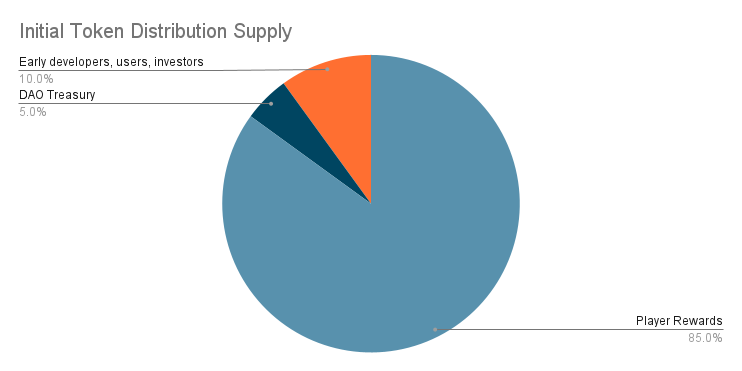
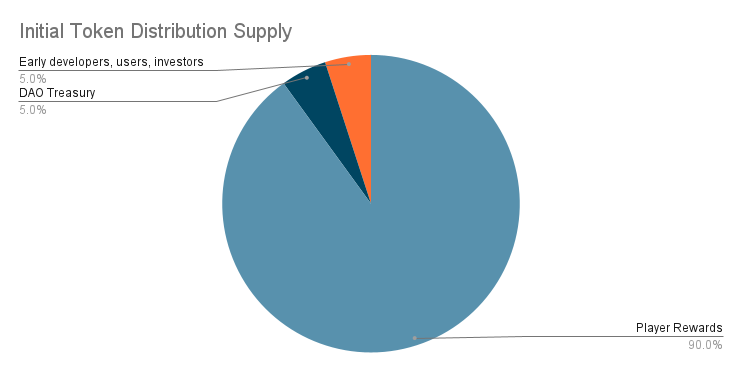
Add contract info, fix typos, misc.

diff --git a/README.md b/README.md
@@ -6,7 +6,7 @@ Sigma Squared is an open-source, decentralized gambling protocol, built on top o
 
 The game smart contracts and house treasury are owned by a DAO, which in turn is controlled using voting interests in the form of an ERC20 token called Sigma Squared (SIGMA2). Players can place bets denominated in SIGMA2 for 0% house edge, enabling actuarially fair gambling. This is not something players can obtain elsewhere at the time of writing, as far as the writers are aware. Users can also place bets denominated in MATIC and USDC for a small house edge, which is set by the community/DAO. In the future, the community can choose to deploy game contracts for other tokens. Any contract balances that arise as the result of this house edge are completely owned and controlled by the DAO. The community may vote to distribute game contract balances in the future in the form of dividends or a buyback, for example.
 
-To ensure that the DAO, and in turn the game contracts / house are actually controlled by players, 90% of the initial circulating supply of Sigma Squared tokens will be given away to players in the form of rewards. This will happen over the first year of Sigma Squared’s existence. A certain number of tokens are distributed to players per block, prorated based on each player’s largest loss in a rewards round. This encourages use of the game contracts, and helps reduce variance, since the largest losers are rewarded more. A more detailed explanation can be found in the ‘Rewards’ section of the documentation.
+To ensure the DAO, and in turn the game contracts / house are actually controlled by players, 90% of the initial circulating supply of Sigma Squared tokens will be given away to players in the form of rewards. This will happen over the first year of Sigma Squared’s existence. A certain number of tokens are distributed to players per block, prorated based on each player’s largest loss in a rewards round. This encourages use of the game contracts, and helps reduce variance, since the largest losers are rewarded more. A more detailed explanation can be found in the [Rewards](rewards.md) section of the documentation.
 
 ## Background
 
@@ -36,11 +36,11 @@ The Sigma Squared token is at the center of the entire ecosystem. It is an ERC20
 
 ### Game Contracts
 
-The game Smart Contracts are what users actually interact with to place bets. Initially, there will be two types of game contracts, described below. However in the future, developers can add other types, and release them by submitting a proposal to the DAO.
+The game Smart Contracts are what users actually interact with to place bets. Initially, there will be two types of game contracts, described below. However, in the future developers can add other types, and release them by submitting proposals to the DAO.
 
 One set of game contracts allows players to bet on a Bernoulli random variable. A bet can be placed by specifying an amount and a multiplier. The outcome will either be a win or a loss. As an example, consider a player that places a bet with an amount of 1 USDC, a multiplier of 3x, and the house edge is 0%. There is a 33.33% chance the player wins 3 USDC (+2 USDC), and a 66.66% they do not get back their original bet (-1 USDC). If there is a positive house edge it will change the probabilities accordingly.
 
-The other set of game contracts allow players to enter a lottery. Any amount can be deposited into the lottery, and a single user wins the entire amount at the end. The probability of winning is weighted based on the amount deposited. There can be a house edge associated with the lottery; when a user deposits into the lottery, a percentage of that deposit is taken out of the lottery pool, and held in the contract as profit.
+The other set of game contracts allow players to enter a lottery. Any amount can be deposited into the lottery, and a single user wins the entire amount at the end. The probability of winning is weighted based on the amount deposited. There can be a house edge associated with the lottery; when a user deposits into the lottery, a percentage of that deposit is taken out of the lottery pool and held in the contract as profit.
 
 All the games contracts are completely owned and controlled by the DAO. Parameters, such as house edge and risk parameters, are governed by the DAO. All profit derived from any games with positive house edge is completely owned by the DAO.
 
@@ -52,13 +52,13 @@ In order to ensure the initial distribution is done in a fair way, a set of rewa
 
 Rewards will be given out over the course of a year, at which point the rewards system will be decommissioned. Rewards are given out in rounds which last 43200 blocks (\~ 1 day with Polygon block times). A set amount of tokens are distributed every block. The rewards are prorated and allocated to players based on each player’s largest loss in a given round.
 
-See the 'Rewards' section in the documentation for more details.
+See the [Rewards](rewards.md) section in the documentation for more details.
 
 ### Front-end Interfaces
 
 The previous three components all exist on the Polygon blockchain. Interacting directly with the Smart Contracts programmatically is something that requires technical knowledge and is likely not what users imagine when they envision gambling. A front-end web app enables interaction in a more user-friendly way.
 
-The on-chain game contracts are basic building blocks for gambling games that only specify the payout distribution. Front-end web interfaces can build on top of these to provide a more interesting gaming experience. Betting on a Bernoulli random variable by specifying an amount and a multiplier alone may not be very exciting, however many more interesting games have this type of payout structure. For example flipping a coin, roulette games, poker hands flipping, and ‘crash’ style games all have a Bernoulli payout structure.
+The on-chain game contracts are basic building blocks for gambling games that only specify the payout distribution. Front-end web interfaces can build on top of these to provide a more engaging gaming experience. Betting on a Bernoulli random variable by specifying an amount and a multiplier alone may not be very exciting, however many more interesting games have this type of payout structure. For example flipping a coin, roulette games, poker hands flipping, and ‘crash’ style games all have a Bernoulli payout structure.
 
 Initially, a single open-source front-end interface will exist for Sigma Squared with a few basic games. However one of the goals of community development is to expand on the game selection and experience available to users. Anyone with web development knowledge can build a gambling application using Sigma Squared as the back-end. To encourage this sort of development, 5% of the initial circulating supply of SIGMA2 was given to the DAO treasury, with the intention of distributing it, in the future, to developers who expand on the user experience by creating new games or improving on existing ones. For example, the DAO could hold competitions or commission new game creation using these tokens as payment / reward.
 
@@ -82,7 +82,7 @@ There is no initial offering, or any centralized offering of tokens. Instead the
 
 * This is a reward for early developers, users, and investors. This ensures the people behind the vision hold a significant controlling stake in the DAO initially, to prevent any sort of hostile takeover or other action.
 
-In addition to this circulating supply, 2,500,000 SIGMA2 was added to the game contracts denominated in SIGMA2, to payout future bet winners.
+In addition to this circulating supply, 2,500,000 SIGMA2 was added to the Bernoulli game contract denominated in SIGMA2, to payout future bet winners.
 
 #### **Total: 12,500,000 SIGMA2**
 
@@ -92,7 +92,7 @@ Because games are offered with 0% house edge when bets are denominated in SIGMA2
 
 To deal with this, the DAO has the power to mint and burn SIGMA2 tokens. If the SIGMA2 game contact balances become extremely low, the DAO will mint more SIGMA2 tokens to add to the game balances. If the game contract balances are outrageously high, the DAO will withdraw SIGMA2 tokens and burn them.
 
-This means the circulating supply of SIGMA2 tokens will also be a random walk (or martingale) over time. The expected value of the circulated supply in the future is whatever the current circulating supply is, but it could still drift in one direction or the other. In other words, SIGMA2 is neither inflationary or deflationary in expectation, but could experience short-term inflation or deflation from random drift.
+This means the circulating supply of SIGMA2 tokens will also be a random walk over time. The expected value of the circulating supply in the future is whatever the current circulating supply is, but it could still drift in one direction or the other. In other words, SIGMA2 is neither inflationary or deflationary in expectation, but could experience short-term inflation or deflation from random drift.
 
 The profits from games denominated in other tokens, that have some positive house edge, could be used to buy back and burn SIGMA2 tokens, effectively making it deflationary in the long-run. However, the exact mechanism used to distribute house profit is left to the DAO to decide.
 
@@ -126,4 +126,4 @@ The current state of Sigma Squared is intended to be only a starting point. Thus
 
 Old game contracts can be replaced, or new game contracts deployed using DAO proposals. If a game contract needs to be replaced, a proposal can be made which programmatically drains the old game contract, deploys a new one, and transfers all funds to the new contract. If a new game contract needs to be deployed, this can also be done using a similar process.
 
-The initial front-end interface that players use to place bets, is completely open source and hosted on IPFS. Development for this can follow existing processes used across the open source community. In addition to this, anyone can create their own front-end for Sigma Squared. The more front-end interfaces developed, the more variety in gambling experience players have and the more decentralized Sigma Squared become.
+The initial front-end interface that players use to place bets is completely open source and hosted on IPFS. Development for this can follow existing processes used across the open source community. In addition to this, anyone can create their own front-end for Sigma Squared. The more front-end interfaces developed, the more variety in gambling experience players have and the more decentralized Sigma Squared become.

diff --git a/contracts.md b/contracts.md
@@ -2,25 +2,25 @@
 
 | | |
 | -- | -- |
-| GitHub link | |
-| Polygon mainnet address | |
-| Polygon testnet (Mumbai) address | |
+| GitHub link | [SigmaSquared](https://github.com/sigma-squared-dapp/sigma-squared-core/blob/master/contracts/SigmaSquared.sol) |
+| Polygon mainnet address | [0xced6411f44e931B0717Ba81eB0B2183A679Fa7Cb](https://polygonscan.com/address/0xced6411f44e931B0717Ba81eB0B2183A679Fa7Cb) |
+| Polygon testnet (Mumbai) address | [0xC6736866C3cAEf0d431f4feC106Eb1E44fea8faC](https://mumbai.polygonscan.com/address/0xC6736866C3cAEf0d431f4feC106Eb1E44fea8faC) |
 
 # Sigma Squared DAO Governor
 
 | | |
 | -- | -- |
-| GitHub link | |
-| Polygon mainnet address | |
-| Polygon testnet (Mumbai) address | |
+| GitHub link | [SigmaSquaredGovernor](https://github.com/sigma-squared-dapp/sigma-squared-core/blob/master/contracts/SigmaSquaredGovernor.sol) |
+| Polygon mainnet address | [0xBBaA09aBFfe23b70275BD2a87AC6D65B6a0556B7](https://polygonscan.com/address/0xBBaA09aBFfe23b70275BD2a87AC6D65B6a0556B7) |
+| Polygon testnet (Mumbai) address | [0x831d6e91bA8801D72b7f2e26159cfCe1ebd6eB3A](https://mumbai.polygonscan.com/address/0x831d6e91bA8801D72b7f2e26159cfCe1ebd6eB3A) |
 
 # Sigma Squared DAO Timelock
 
 | | |
 | -- | -- |
-| GitHub link | |
-| Polygon mainnet address | |
-| Polygon testnet (Mumbai) address | |
+| GitHub link | [SigmaSquaredTimelockController](https://github.com/sigma-squared-dapp/sigma-squared-core/blob/master/contracts/SigmaSquaredTimelockController.sol) |
+| Polygon mainnet address | [0x8D0F41AC8A450fbaf7A4a9Fcb2208B154568c4a4](https://polygonscan.com/address/0x8D0F41AC8A450fbaf7A4a9Fcb2208B154568c4a4) |
+| Polygon testnet (Mumbai) address | [0xCAe87975B6CE0Ea11848773fc89D6e1e011a95CB](https://mumbai.polygonscan.com/address/0xCAe87975B6CE0Ea11848773fc89D6e1e011a95CB) |
 
 # Bernoulli Games
 
@@ -28,25 +28,25 @@
 
 | | |
 | -- | -- |
-| GitHub link | |
-| Polygon mainnet address | |
-| Polygon testnet (Mumbai) address | |
+| GitHub link | [BernoulliGameSigmaSquared](https://github.com/sigma-squared-dapp/sigma-squared-core/blob/master/contracts/BernoulliGameSigmaSquared.sol) |
+| Polygon mainnet address | [0xF5237038c16aC312e2104ac4709D850F4FaeC1B7](https://polygonscan.com/address/0xF5237038c16aC312e2104ac4709D850F4FaeC1B7) |
+| Polygon testnet (Mumbai) address | [0x17522af96c91b88952C249d09AB15F7336C75b98](https://mumbai.polygonscan.com/address/0x17522af96c91b88952C249d09AB15F7336C75b98) |
 
 ### MATIC
 
 | | |
 | -- | -- |
-| GitHub link | |
-| Polygon mainnet address | |
-| Polygon testnet (Mumbai) address | |
+| GitHub link | [BernoulliGameNative](https://github.com/sigma-squared-dapp/sigma-squared-core/blob/master/contracts/BernoulliGameNative.sol) |
+| Polygon mainnet address | [0xF83D6A6c9fadB816d04aAf1b17a6a1A5317523c1](https://polygonscan.com/address/0xF83D6A6c9fadB816d04aAf1b17a6a1A5317523c1) |
+| Polygon testnet (Mumbai) address | [0x5901f8a0F87BD6C68908cAB77f657438cF0E2fCE](https://mumbai.polygonscan.com/address/0x5901f8a0F87BD6C68908cAB77f657438cF0E2fCE) |
 
 ### USDC
 
 | | |
 | -- | -- |
-| GitHub link | |
-| Polygon mainnet address | |
-| Polygon testnet (Mumbai) address | |
+| GitHub link | [BernoulliGameUSDC](https://github.com/sigma-squared-dapp/sigma-squared-core/blob/master/contracts/BernoulliGameUSDC.sol) |
+| Polygon mainnet address | [0xd505cD7e1Faa859a353d22d478788Eb22b45b0fC](https://polygonscan.com/address/0xd505cD7e1Faa859a353d22d478788Eb22b45b0fC) |
+| Polygon testnet (Mumbai) address | [0x2565eA2816F5796227D75FA2fc6CA76245168893](https://mumbai.polygonscan.com/address/0x2565eA2816F5796227D75FA2fc6CA76245168893) |
 
 # Lottery Games
 
@@ -54,25 +54,25 @@
 
 | | |
 | -- | -- |
-| GitHub link | |
-| Polygon mainnet address | |
-| Polygon testnet (Mumbai) address | |
+| GitHub link | [LotterySigmaSquared](https://github.com/sigma-squared-dapp/sigma-squared-core/blob/master/contracts/LotterySigmaSquared.sol) |
+| Polygon mainnet address | [0x62E72790aE28e18f63fdC044B5Bef2283DAc7104](https://polygonscan.com/address/0x62E72790aE28e18f63fdC044B5Bef2283DAc7104) |
+| Polygon testnet (Mumbai) address | [0x2C75e8b244Ebe5C75b17e7BE749BEC6Bc373313b](https://mumbai.polygonscan.com/address/0x2C75e8b244Ebe5C75b17e7BE749BEC6Bc373313b) |
 
 ### MATIC
 
 | | |
 | -- | -- |
-| GitHub link | |
-| Polygon mainnet address | |
-| Polygon testnet (Mumbai) address | |
+| GitHub link | [LotteryNative](https://github.com/sigma-squared-dapp/sigma-squared-core/blob/master/contracts/LotteryNative.sol) |
+| Polygon mainnet address | [0x0f8a9F51320A54919D43C55363076950255F9432](https://polygonscan.com/address/0x0f8a9F51320A54919D43C55363076950255F9432) |
+| Polygon testnet (Mumbai) address | [0xB174b2494b5e95236678aD0a559C32aFc82C4aF7](https://mumbai.polygonscan.com/address/0xB174b2494b5e95236678aD0a559C32aFc82C4aF7) |
 
 ### USDC
 
 | | |
 | -- | -- |
-| GitHub link | |
-| Polygon mainnet address | |
-| Polygon testnet (Mumbai) address | |
+| GitHub link | [LotteryUSDC](https://github.com/sigma-squared-dapp/sigma-squared-core/blob/master/contracts/LotteryUSDC.sol) |
+| Polygon mainnet address | [0xbB3f3553f5e806c9C0F7F17581d915be3adc416b](https://polygonscan.com/address/0xbB3f3553f5e806c9C0F7F17581d915be3adc416b) |
+| Polygon testnet (Mumbai) address | [0xF607FBDB84f3357D5a096F1efb34c619b1c54C4C](https://mumbai.polygonscan.com/address/0xF607FBDB84f3357D5a096F1efb34c619b1c54C4C) |
 
 # Rewards
 
@@ -80,22 +80,22 @@
 
 | | |
 | -- | -- |
-| GitHub link | |
-| Polygon mainnet address | |
-| Polygon testnet (Mumbai) address | |
+| GitHub link | [SigmaSquaredLargestLossRewards](https://github.com/sigma-squared-dapp/sigma-squared-core/blob/master/contracts/SigmaSquaredLargestLossRewards.sol) |
+| Polygon mainnet address | [0xaab34069ef41BcD10645FE0eeDbbD1416bDF8c91](https://polygonscan.com/address/0xaab34069ef41BcD10645FE0eeDbbD1416bDF8c91) |
+| Polygon testnet (Mumbai) address | [0x51985A6b404Fae2B520fE4C455d65670ac0Ed035](https://mumbai.polygonscan.com/address/0x51985A6b404Fae2B520fE4C455d65670ac0Ed035) |
 
 ### MATIC Game Rewards
 
 | | |
 | -- | -- |
-| GitHub link | |
-| Polygon mainnet address | |
-| Polygon testnet (Mumbai) address | |
+| GitHub link | [NativeLargestLossRewards](https://github.com/sigma-squared-dapp/sigma-squared-core/blob/master/contracts/NativeLargestLossRewards.sol) |
+| Polygon mainnet address | [0x0D5B50B1557eE651eA5a0e342b06866F87b02388](https://polygonscan.com/address/0x0D5B50B1557eE651eA5a0e342b06866F87b02388) |
+| Polygon testnet (Mumbai) address | [0x2A06486D2591Cb0eB370d5bC2E1Fa73A1D07dA3f](https://mumbai.polygonscan.com/address/0x2A06486D2591Cb0eB370d5bC2E1Fa73A1D07dA3f) |
 
 ### USDC Game Rewards
 
 | | |
 | -- | -- |
-| GitHub link | |
-| Polygon mainnet address | |
-| Polygon testnet (Mumbai) address | |
+| GitHub link | [USDCLargestLossRewards](https://github.com/sigma-squared-dapp/sigma-squared-core/blob/master/contracts/USDCLargestLossRewards.sol) |
+| Polygon mainnet address | [0x460b7916e5921Eb527570FbA22B4797BB677240F](https://polygonscan.com/address/0x460b7916e5921Eb527570FbA22B4797BB677240F) |
+| Polygon testnet (Mumbai) address | [0xDD3f82f7a5Fc90dcC575E46275E8380589DaAfE5](https://mumbai.polygonscan.com/address/0xDD3f82f7a5Fc90dcC575E46275E8380589DaAfE5) |

diff --git a/rewards.md b/rewards.md
@@ -2,9 +2,9 @@
 
 ## Overview
 
-To ensure players hold the vast majority of SIGMA2 tokens, 85% of the initial supply of SIGMA2 will be given away to players in the form of awards. These tokens are locked in reward contracts, from which players can claim rewards they are entitled to. The amount of rewards a player receives depends on their largest loss within a given rewards round. The details of this are explained below in the next section.
+To ensure players hold the vast majority of SIGMA2 tokens, 90% of the initial supply of SIGMA2 will be given away to players in the form of awards. These tokens are locked in rewards contracts, from which players can claim rewards they are entitled to. The per block emission rate is set such that all rewards will be given out over the course of one year from the launch.  The amount of rewards a player receives depends on their largest loss within a given rewards round. The details of this are explained below in the next section.
 
-There are three different rewards contracts, one for each token players can place bets in. 50% of the rewards will be allocated for players betting in SIGMA2, 25% for players betting in MATIC, and 25% for players betting in USDC. This is to slightly encourage the use of SIGMA2 for betting over other tokens.
+There are three different rewards contracts, one for each token players can place bets in. 50% of the rewards will be allocated for players betting in SIGMA2, 25% for players betting in MATIC, and 25% for players betting in USDC. This is to slightly encourage the use of SIGMA2 for betting over other tokens.  The 9,000,000 SIGMA2 allocated for rewards is split between these three rewards contracts as such.
 
 ![Rewards Allocation](<assets/Rewards Allocation.png>)
 
@@ -32,25 +32,25 @@ There is a separate rewards contract for each token players can place bets with.
 
 |                                   |   |
 | --------------------------------- | - |
-| Polygon mainnet address:          |   |
-| Emission rate:                    |   |
-| Min round length:                 |   |
-| Polygon testnet (Mumbai) address: |   |
+| Polygon mainnet address:          | [0xaab34069ef41BcD10645FE0eeDbbD1416bDF8c91](https://polygonscan.com/address/0xaab34069ef41BcD10645FE0eeDbbD1416bDF8c91) |
+| Emission rate:                    | 0.285352 SIGMA2 per block |
+| Min round length:                 | 43200 blocks (~ 1 day) |
+| Polygon testnet (Mumbai) address: | [0x51985A6b404Fae2B520fE4C455d65670ac0Ed035](https://mumbai.polygonscan.com/address/0x51985A6b404Fae2B520fE4C455d65670ac0Ed035) |
 
 **MATIC Games Rewards Contract:** TODO
 
 |                                   |   |
 | --------------------------------- | - |
-| Polygon mainnet address:          |   |
-| Emission rate:                    |   |
-| Min round length:                 |   |
-| Polygon testnet (Mumbai) address: |   |
+| Polygon mainnet address:          | [0x0D5B50B1557eE651eA5a0e342b06866F87b02388](https://polygonscan.com/address/0x0D5B50B1557eE651eA5a0e342b06866F87b02388) |
+| Emission rate:                    | 0.142676 SIGMA2 per block |
+| Min round length:                 | 43200 blocks (~ 1 day) |
+| Polygon testnet (Mumbai) address: | [0x2A06486D2591Cb0eB370d5bC2E1Fa73A1D07dA3f](https://mumbai.polygonscan.com/address/0x2A06486D2591Cb0eB370d5bC2E1Fa73A1D07dA3f) |
 
 **USDC Games Rewards Contract:** TODO
 
 |                                   |   |
 | --------------------------------- | - |
-| Polygon mainnet address:          |   |
-| Emission rate:                    |   |
-| Min round length:                 |   |
-| Polygon testnet (Mumbai) address: |   |
+| Polygon mainnet address:          | [0x460b7916e5921Eb527570FbA22B4797BB677240F](https://polygonscan.com/address/0x460b7916e5921Eb527570FbA22B4797BB677240F) |
+| Emission rate:                    | 0.142676 SIGMA2 per block |
+| Min round length:                 | 43200 blocks (~ 1 day) |
+| Polygon testnet (Mumbai) address: | [0xDD3f82f7a5Fc90dcC575E46275E8380589DaAfE5](https://mumbai.polygonscan.com/address/0xDD3f82f7a5Fc90dcC575E46275E8380589DaAfE5) |

diff --git a/games.md b/games.md
@@ -4,35 +4,29 @@ This set of game contracts allows users to bet on a Bernoulli random variable.  
 
 There is a different contract deployed for each type of token accepted as bets.  Currently that includes USDC, MATIC, and SIGMA2.
 
-### Notable params: TODO
+### Notable params:
 
 | Name | Description |
 | --- | --- |
-| houseEdge | |
-| maxWinAmount | |
-| minBetAmount | |
+| houseEdge | The house edge for each bet placed as a percentage. |
+| maxLoss | The maximum possible win allowed as a percentage of the contract's total balance. |
+| minBet | The minimum bet allowed. |
 
 
-Github Links: TODO
-
-Contract Address: TODO
+Contract list: [BernoulliGameSigmaSquared](https://github.com/sigma-squared-dapp/sigma-squared-core/blob/master/contracts/BernoulliGameSigmaSquared.sol), [BernoulliGameNative](https://github.com/sigma-squared-dapp/sigma-squared-core/blob/master/contracts/BernoulliGameNative.sol), [BernoullilGameUSDC](https://github.com/sigma-squared-dapp/sigma-squared-core/blob/master/contracts/BernoulliGameUSDC.sol)
 
 # Lottery Games
 
-This set of game contracts consists of lottery style games.  Players can enter a lottery by depositing some amount of tokens.  At the end of the lottery period a single player is picked as a winner, and they receive the entire prize pool.  The probability of each player winning is weighted based on their deposit amount.  If there is some house edge specified, then that percentage is taken out of each deposit and held as profit instead of going to the lottery pool.
+This set of game contracts consists of lottery style games.  Players can enter a lottery by depositing some amount of tokens.  At the end of the lottery period a single player is picked as a winner, and they receive the entire prize pool.  The probability of each player winning is weighted based on their deposit amount.  If there is some house edge specified, that percentage is taken out of each deposit and held as profit instead of going to the lottery pool.
 
 ### Notable params: TODO
 
 | Name | Description |
 | --- | --- |
-| houseEdge | |
-| minBetAmount | |
-| roundLengthBlocks | |
+| houseEdge | The house edge for each deposit as a percentage. |
+| minBlocksPerRound | The minimum number of blocks that must pass before a lottery round can be ended and settled. |
 
-Github Links: TODO
-
-Contract Address: TODO
-
+Contract list: [LotterySigmaSquared](https://github.com/sigma-squared-dapp/sigma-squared-core/blob/master/contracts/LotterySigmaSquared.sol), [LotteryNative](https://github.com/sigma-squared-dapp/sigma-squared-core/blob/master/contracts/LotteryNative.sol), [LotteryUSDC](https://github.com/sigma-squared-dapp/sigma-squared-core/blob/master/contracts/LotteryUSDC.sol)
 
 # Fairness
 

diff --git a/architecture.md b/architecture.md
@@ -10,9 +10,7 @@
 
 This is a standard ERC20 token contract. The owner of the token is the DAO. This means the DAO has the power to mint and burn tokens, along with pausing all transactions in case of emergency. The contract is based on the OpenZeppelin ERC20 contract.
 
-Contract list: TODO
-
-GitHub links: TODO
+Contract list: [SigmaSquared](https://github.com/sigma-squared-dapp/sigma-squared-core/blob/master/contracts/SigmaSquared.sol)
 
 ### DAO
 
@@ -20,9 +18,7 @@ The DAO has the ability to execute arbitrary transactions that are proposed and 
 
 The DAO owns the Sigma Squared token contract, and all of the game contracts. It has the power to call any functions on these contracts that are marked ‘onlyOwner’. The functions can adjust game parameters, withdraw funds from games, etc..
 
-Contract list: TODO
-
-GitHub links: TODO
+Contract list: [SigmaSquaredGovernor](https://github.com/sigma-squared-dapp/sigma-squared-core/blob/master/contracts/SigmaSquaredGovernor.sol), [SigmaSquaredTimelockController](https://github.com/sigma-squared-dapp/sigma-squared-core/blob/master/contracts/SigmaSquaredTimelockController.sol)
 
 ### Rewards Contracts
 
@@ -30,6 +26,8 @@ This is the set of contracts that distribute rewards to players. For more inform
 
 After the distribution of all rewards from the initial token allocation, these contracts will be decommissioned.
 
-Contract list: TODO
+Contract list: [SigmaSquaredLargestLossRewards](https://github.com/sigma-squared-dapp/sigma-squared-core/blob/master/contracts/SigmaSquaredLargestLossRewards.sol), [NativeLargestLossRewards](https://github.com/sigma-squared-dapp/sigma-squared-core/blob/master/contracts/NativeLargestLossRewards.sol), [USDCLargestLossRewards](https://github.com/sigma-squared-dapp/sigma-squared-core/blob/master/contracts/USDCLargestLossRewards.sol)
 
-GitHub links: TODO
+### Game Contracts
+
+This is the set of contracts that players interact with to place bets.  These are described in the [Games section](games.md) of the documentation.

diff --git a/faq.md b/faq.md
@@ -2,7 +2,7 @@
 
 ### What is Sigma Squared?
 
-Sigma Squared is a decentralized gambling protocol where the players are the house. It is non-custodial and anyone with a Polygon wallet can play. Players can place bets with 0% house edge using SIGMA2 tokens, or place bets with a small house edge using other tokens. Any house profit is owned by SIGMA2 token holders. To learn more about the distribution of SIGMA2 tokens, visit the ‘Tokenonmics’ section in this documentation.
+Sigma Squared is a decentralized gambling protocol where the players are the house. It is non-custodial and anyone with a Polygon wallet can play. Players can place bets with 0% house edge using SIGMA2 tokens, or place bets with a small house edge using other tokens. Any house profit is owned by SIGMA2 token holders. To learn more about the distribution of SIGMA2 tokens, visit the [Tokenonmics](tokenomics.md) section in this documentation.
 
 ### How is game fairness ensured?
 
@@ -14,4 +14,4 @@ You need a Metamask wallet (or other injected browser wallet), and assets on the
 
 ### How can I get SIGMA2 tokens?
 
-You can either place bets in USDC or MATIC to earn rewards in SIGMA2 (see Rewards section), or you can trade on the secondary market (see Uniswap listing).
+You can either place bets in USDC or MATIC to earn rewards in SIGMA2 (see [Rewards](rewards.md) section), or you can trade on the secondary market (see [Uniswap listing](uniswap.md)).

diff --git a/polygonHelp.md b/polygonHelp.md
@@ -1,7 +1,7 @@
 # How To Get Assets Into Polygon
 
-You can bridge assets from Ethereum to Polygon using a bridge such as the [official Polygon one.]((https://wallet.polygon.technology/bridge))
+You can bridge assets from Ethereum to Polygon using a bridge such as the [official Polygon one.](https://wallet.polygon.technology/bridge)
 
 If you don’t have any existing crypo assets, you can use a [fiat on-ramp](https://wallet.polygon.technology/on-ramp) to deposit crypo directly into your Polygon wallet.
 
-You can also use an exchange to buy assets and transfer them directly to your Polygon wallet.  [Crypto.com](https://crypto.com/us/) allows you to buy USDC and MATIC and transfer directly to the Polygon network.  Something like this is likely the most efficient way to get assets (in terms of gas).
+You can also use an exchange to buy assets and transfer them directly to your Polygon wallet.  [Crypto.com](https://crypto.com/us/) allows you to buy USDC and MATIC and transfer directly to the Polygon network.  Something similar to this is likely the most efficient way to get assets (in terms of gas).

diff --git a/tokenomics.md b/tokenomics.md
@@ -6,7 +6,7 @@ A fair initial mint is needed to ensure the vision of a truly decentralized and 
 
 ### **Total Circulating: 10,000,000 SIGMA2**
 
-**Player Rewards: 8,500,000 SIGMA2 (85%)**
+**Player Rewards: 9,000,000 SIGMA2 (90%)**
 
 - To ensure the vast majority of tokens are in the hands of players.
 
@@ -14,7 +14,7 @@ A fair initial mint is needed to ensure the vision of a truly decentralized and 
 
 - To be used for future development, marketing, and community growth.
 
-**Early developers, test users, and investors: 1,000,000 SIGMA2  (10%)**
+**Early developers, test users, and investors: 500,000 SIGMA2  (5%)**
 
 - This is a reward for early developers, users, and investors.  This ensures the people behind the vision hold a significant controlling stake in the DAO initially, to prevent any sort of hostile takeover or other action.
 

diff --git a/uniswap.md b/uniswap.md
@@ -1,3 +1,3 @@
 # Uniswap Listing
 
-SIGMA2 is traded on Uniswap V3 on the Polygon network.  You can add liquidity here or swap here.
+SIGMA2 is traded on Uniswap V3 on the Polygon network.  You can add [liquidity here](https://app.uniswap.org/#/add/ETH/0xced6411f44e931B0717Ba81eB0B2183A679Fa7Cb?chain=polygon) or [swap here](https://app.uniswap.org/#/swap?chain=polygon&outputCurrency=0xced6411f44e931B0717Ba81eB0B2183A679Fa7Cb).
